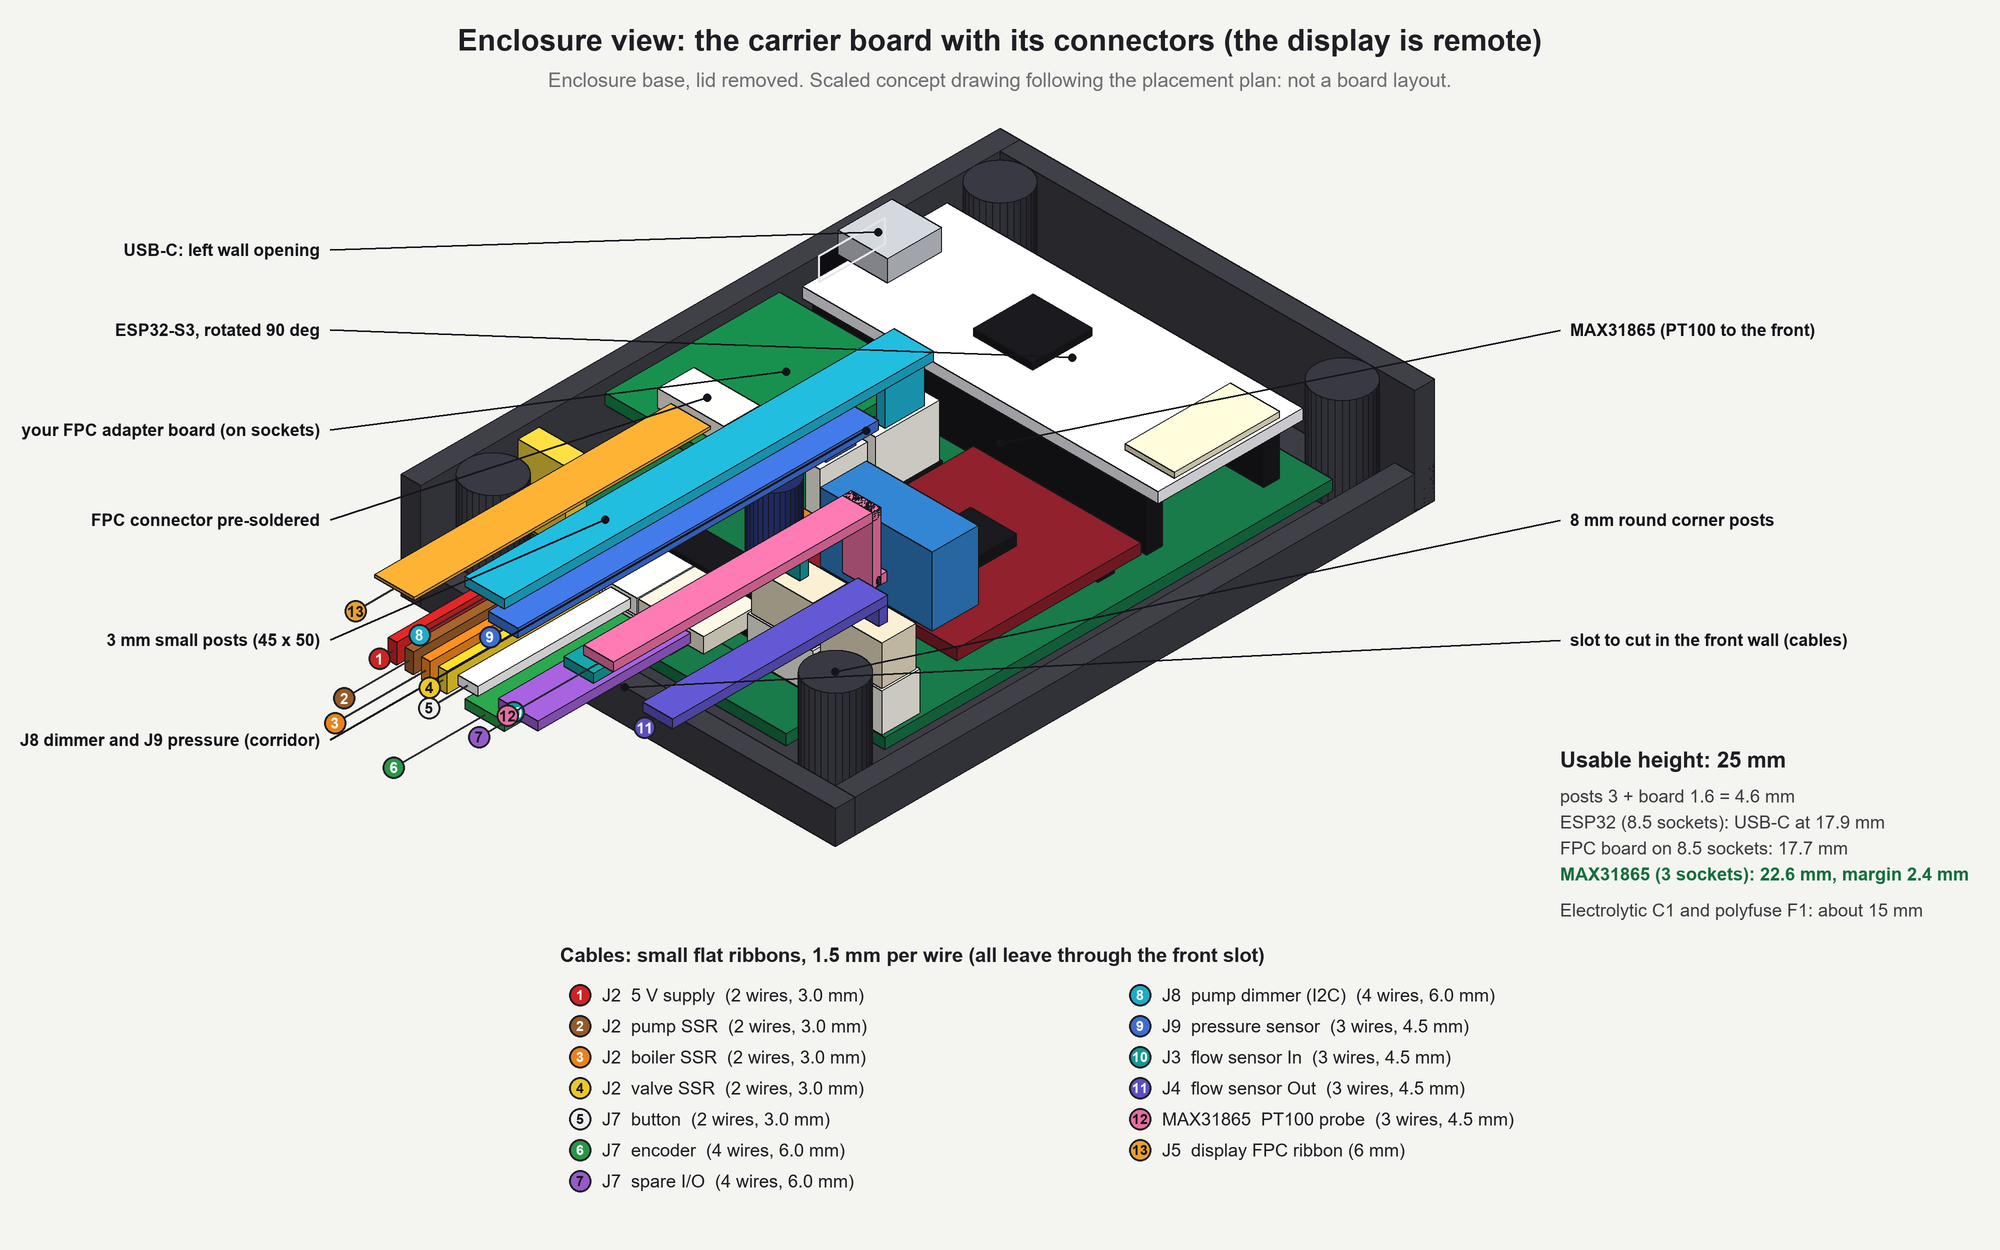
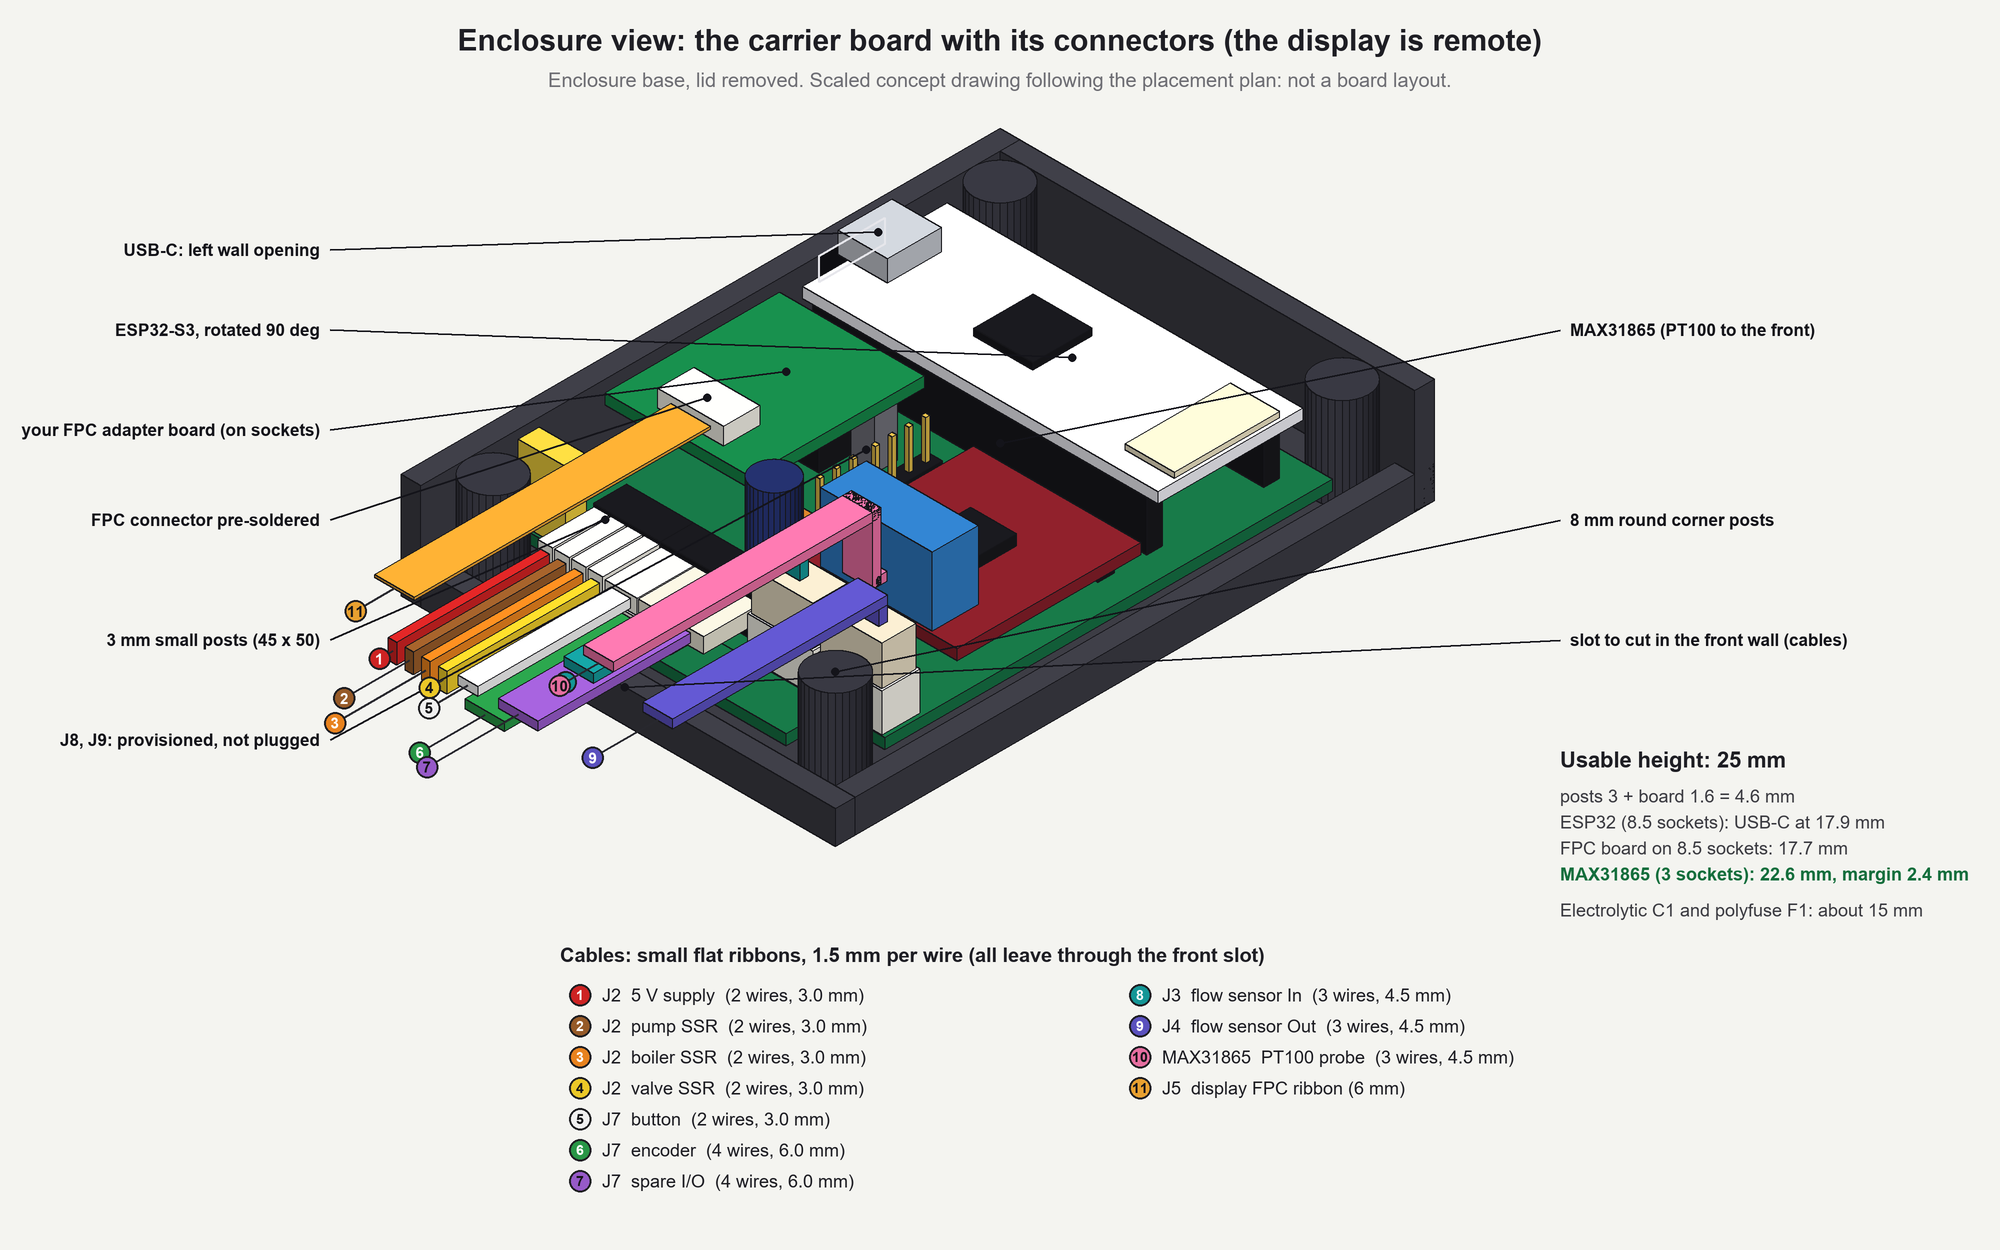
3D view: J8 and J9 shown unplugged (provisioned only), cables renumbered

diff --git a/tools/enclosure.py b/tools/enclosure.py
@@ -153,8 +153,13 @@ cuboid(ax0 + 17.5, ay0 + 3.1, top, 3.5, 3.5, HDR, (110, 110, 118))
 # J8 (dimmer, 1 x 4) and J9 (pressure, 1 x 3): straight headers in the corridor, plugs seated on top
 J8X, J8Y = CX0 + 27.2 - 1.27, CY0 + 31.0 - 1.27
 J9X, J9Y = CX0 + 27.2 - 1.27, CY0 + 42.0 - 1.27
-cuboid(J8X, J8Y, top, 2.54, 10.16, 2.5, BLACK); cuboid(J8X + 0.2, J8Y + 0.2, top + 2.5, 2.14, 9.76, 8.0, WHITE)
-cuboid(J9X, J9Y, top, 2.54, 7.62, 2.5, BLACK); cuboid(J9X + 0.2, J9Y + 0.2, top + 2.5, 2.14, 7.22, 8.0, WHITE)
+# (provisioned only: bare headers with their pins, nothing plugged in)
+cuboid(J8X, J8Y, top, 2.54, 10.16, 2.5, BLACK)
+cuboid(J9X, J9Y, top, 2.54, 7.62, 2.5, BLACK)
+for i in range(4):
+    cuboid(CX0 + 27.2 - 0.32, CY0 + 31.0 + i * 2.54 - 0.32, top + 2.5, 0.64, 0.64, 6.0, GOLD)
+for i in range(3):
+    cuboid(CX0 + 27.2 - 0.32, CY0 + 42.0 + i * 2.54 - 0.32, top + 2.5, 0.64, 0.64, 6.0, GOLD)
 # J2 (2 x 4 right-angle, rows stacked vertically) and four 2-pin housings plugged in from the front
 cuboid(CX0 + 12.2 - 1.27, CY0 + 60.2, top, 10.16, 5.0, 5.9, BLACK)
 for k in range(4):
@@ -226,14 +231,7 @@ xb, xe, xs = CX0 + 22.4 + 1.27, CX0 + 22.4 + 3.81, CX0 + 22.4 + 8.89
 run_x(xb, Y0, Y_END, top + 4.15, 2, (240, 240, 240)); cable("button", "J7", 2, (240, 240, 240), (xb, Y_END, top + 4.15))
 run_x(xe, Y0, Y_END, top + 1.55, 4, (40, 150, 70)); cable("encoder", "J7", 4, (40, 150, 70), (xe, Y_END, top + 1.55))
 run_x(xs, Y0, Y_END, top + 4.15, 4, (150, 90, 200)); cable("spare I/O", "J7", 4, (150, 90, 200), (xs, Y_END, top + 4.15))
-# J8 (4 wires) and J9 (3 wires): up from the plugs, then forward; J9 passes under J8 and over C1
-c8, c9 = (30, 170, 200), BLU
-riser_y(CX0 + 27.2, CY0 + 34.8, top + 10.5, top + 17.0, 4, c8)
-cuboid(CX0 + 26.2 - 3.0, CY0 + 34.8 - 3.0, top + 17.0, 6.0, Y_END - (CY0 + 34.8 - 3.0), TH, c8)
-cable("pump dimmer (I2C)", "J8", 4, c8, (CX0 + 26.2, Y_END, top + 17.0))
-riser_y(CX0 + 27.2, CY0 + 44.5, top + 10.5, top + 14.2, 3, c9)
-cuboid(CX0 + 29.0 - 2.25, CY0 + 44.5 - 2.25, top + 14.2, 4.5, Y_END - (CY0 + 44.5 - 2.25), TH, c9)
-cable("pressure sensor", "J9", 3, c9, (CX0 + 29.0, Y_END, top + 14.2))
+# J8 (dimmer) and J9 (pressure sensor) are provisioned but not plugged: no cable here
 # JST XH: flow sensors (3 wires each), up from the plugs then forward
 c3, c4 = (20, 150, 150), (90, 80, 190)
 riser_x(CX0 + 40.5, CY0 + 65.0, top + 11.8, top + 14.0, 3, c3)
@@ -298,7 +296,7 @@ pl(ax0 + 11, ay0 + 22, top + HDR + 4.2, 330, 520, "FPC connector pre-soldered")
 pl(sx0, sy0 + 50, FLOOR + 3, 330, 640, "3 mm small posts (45 x 50)")
 pl(BX - WALL - 4, BY - WALL - 4, BASE_H, 1560, 520, "8 mm round corner posts")
 pl(CX0 + 30, BY, FW, 1560, 640, "slot to cut in the front wall (cables)")
-pl(CX0 + 27.2, CY0 + 40, top + 11, 330, 740, "J8 dimmer and J9 pressure (corridor)")
+pl(CX0 + 27.2, CY0 + 40, top + 8.5, 330, 740, "J8, J9: provisioned, not plugged")
 
 # numbered tags at the cable ends, staggered so that they do not overlap
 ends = []

diff --git a/docs/carrier_spec.md b/docs/carrier_spec.md
@@ -14,7 +14,7 @@ All **through-hole** parts (no SMD soldering). Related files: `images/carrier_pl
 - **Front connector row:** right-angle headers with their Dupont housings need about **9 mm in front of the pads** (keep-out, nothing else there); J2 and J7 are on the 42 x 7 mm tab, the vertical JST XH J3 and J4 at the front right, F1 and D1 in the front-left corner. A cable slot is needed in the front wall (housings end about 1 mm from it).
 - **All cables leave through the front** (J2, J7, J3, J4, the PT100 wires and the display ribbon). Only the USB-C cable leaves through the left wall.
 - **Display ribbon:** the FPC adapter board is rotated so that its connector faces the front: the flat ribbon (about 6 mm wide, at about 15.5 mm) runs **straight to the front** between x 7 and 18 mm, above J2's housings (10.5 mm) and F1; no tall part (JST XH plugs reach about 16 mm) may sit in that column. Nothing crosses the MAX31865 any more.
-- **Cables:** small flat ribbons (Dupont wires side by side), about **1.5 mm per wire** (4 wires = 6 mm, 3 wires = 4.5 mm, 2 wires = 3 mm), 1.3 mm thick. In the 3D view the cables are numbered 1 to 13 (J2 x4, J7 x3, J8, J9, J3, J4, PT100 probe, display ribbon). J8 and J9 leave the plugs upwards at about 12 and 15 mm, J3 / J4 at about 12 mm, the PT100 ribbon at about 15 mm; all go through the front slot.
+- **Cables:** small flat ribbons (Dupont wires side by side), about **1.5 mm per wire** (4 wires = 6 mm, 3 wires = 4.5 mm, 2 wires = 3 mm), 1.3 mm thick. In the 3D view the cables are numbered 1 to 11 (J2 x4, J7 x3, J3, J4, PT100 probe, display ribbon); J3 / J4 leave their plugs upwards at about 12 mm and the PT100 ribbon at about 15 mm; all go through the front slot. **J8 (pump dimmer) and J9 (pressure sensor) are provisioned on the board but not plugged for now**: they are shown as bare headers, and their cables (4 wires = 6 mm, 3 wires = 4.5 mm) are not counted in the slot width.
 - The spare-I/O resistors R17 to R21 are flat resistors under the MAX31865 (3 mm clearance, enough for axial 1/4 W parts).
 - No copper and no component under the ESP32 antenna (the end of the ESP32 board opposite the USB-C).
 
